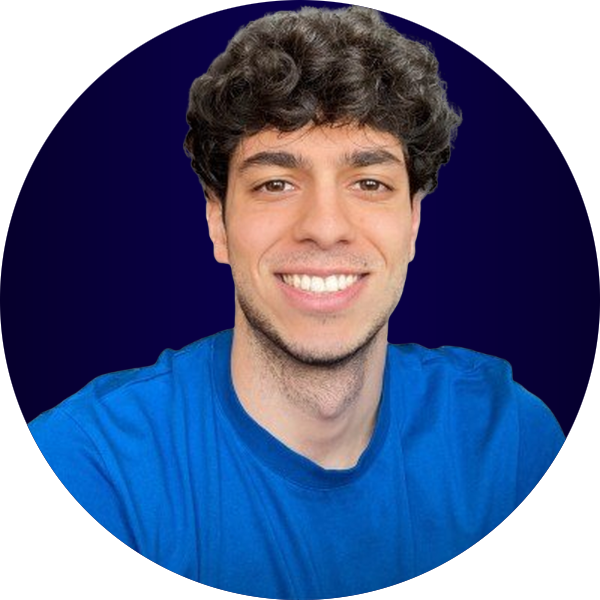
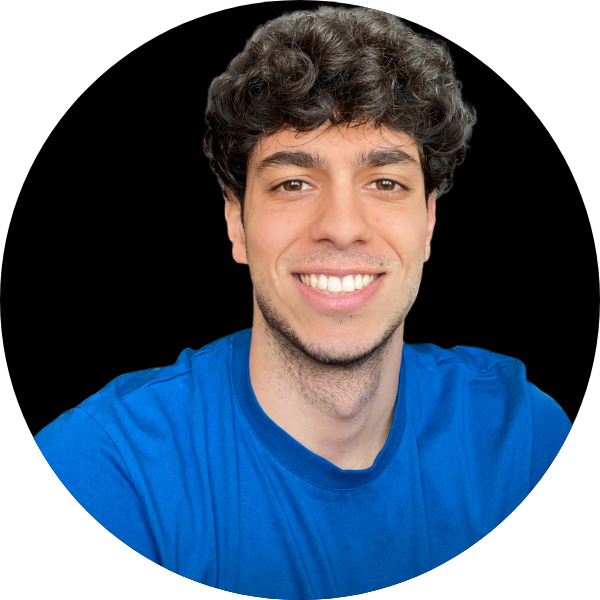
changed color dark mode

diff --git a/js/script.js b/js/script.js
@@ -75,9 +75,9 @@ document.querySelector('.dark-mode').addEventListener('click', function(){
 // FUNZIONI
 function darkTheme(root){
     document.querySelector('.photo-jumbo').src='img/bgMeJumboDark.png'
-    root.style.setProperty('--secondary', '#061d3d');
-    root.style.setProperty('--text', '#b9b9b9');
-    root.style.setProperty('--bg-cards', '#04152d');
+    root.style.setProperty('--secondary', '#111');
+    root.style.setProperty('--text', '#e0e0e0');
+    root.style.setProperty('--bg-cards', '#15151d');
     root.style.setProperty('--bg-blur', 'rgba(6,29,61,0.2)');
     root.style.setProperty('--bg-blur-arr', 'rgba(6,29,61,0.2)');
     root.style.setProperty('--shadow', '0px 1px 14px 5px rgba(255,255,255,0.1)');
